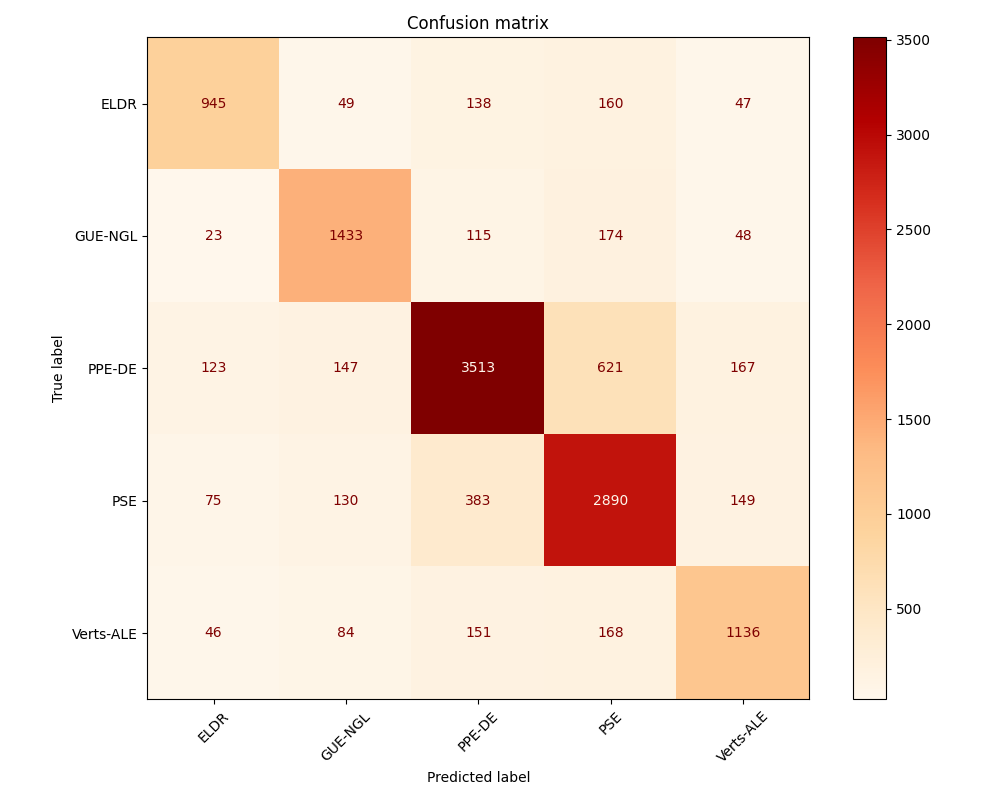
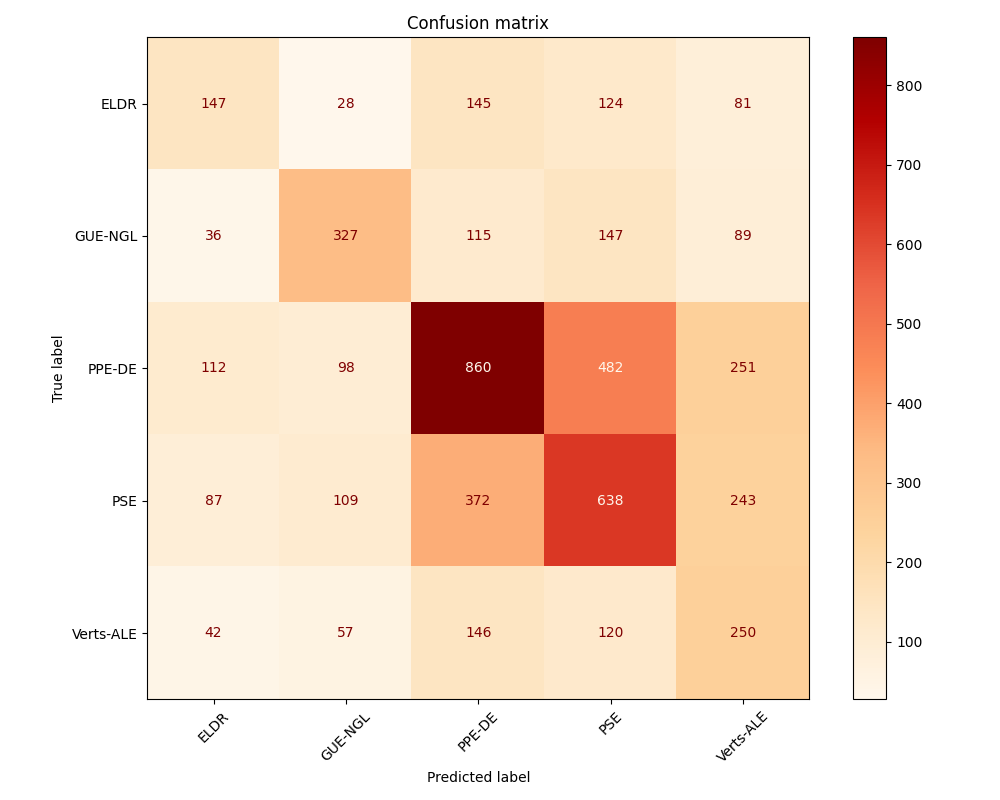
add some features + results for all languages drop duplicates and default parameters

diff --git a/src/main.py b/src/main.py
@@ -11,7 +11,9 @@ def main(config: dict):
             f"{colors.bold}{colors.red}\n\nCurrently training on {language}...{colors.reset}"
         )
         loader = DataLoader(config["train_path"], config["test_path"], language)
-        X_train, X_test, y_train, y_test = loader.get_train_test_vectorized()
+        X_train, X_test, y_train, y_test = loader.get_train_test_vectorized(
+            drop_duplicates=config["drop_duplicates"]
+        )
         labels = sorted(set(loader.df["y"]))
         trainer = Trainer(
             config["models"], X_train, X_test, y_train, y_test, labels, language
@@ -29,4 +31,7 @@ if __name__ == "__main__":
     print(f"{colors.bold}{colors.green}Test path:{colors.reset} {config['test_path']}")
     print(f"{colors.bold}{colors.green}Languages:{colors.reset} {config['languages']}")
     print(f"{colors.bold}{colors.green}Models:{colors.reset} {config['models']}")
+    print(
+        f"{colors.bold}{colors.green}Drop duplicates:{colors.reset} {config['drop_duplicates']}"
+    )
     main(config)

diff --git a/src/preprocessing/DataLoader.py b/src/preprocessing/DataLoader.py
@@ -78,13 +78,14 @@ class DataLoader:
         ).readlines()
         return [line.split("\t")[-1].strip() for line in lines]
 
-    def get_train_test_vectorized(self) -> tuple[pd.Series]:
+    def get_train_test_vectorized(self, drop_duplicates=True) -> tuple[pd.Series]:
         vectorizer = TfidfVectorizer()
-        X_train = self.df["paragraphs"][self.df["split"] == "train"]
+        df = self.df_unique if drop_duplicates else self.df
+        X_train = df["paragraphs"][df["split"] == "train"]
         X_train_vectorized = vectorizer.fit_transform(X_train)
-        X_test = self.df["paragraphs"][self.df["split"] == "test"]
+        X_test = df["paragraphs"][df["split"] == "test"]
         X_test_vectorized = vectorizer.transform(X_test)
-        y_train = self.df["y"][self.df["split"] == "train"]
-        y_test = self.df["y"][self.df["split"] == "test"]
+        y_train = df["y"][df["split"] == "train"]
+        y_test = df["y"][df["split"] == "test"]
 
         return X_train_vectorized, X_test_vectorized, y_train, y_test
